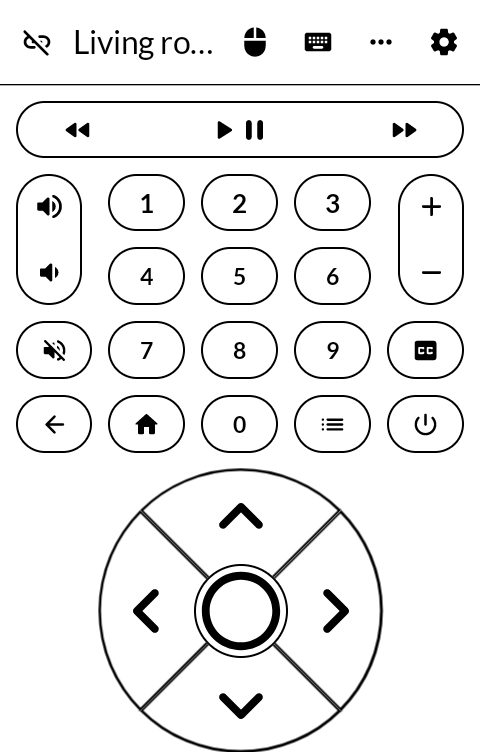
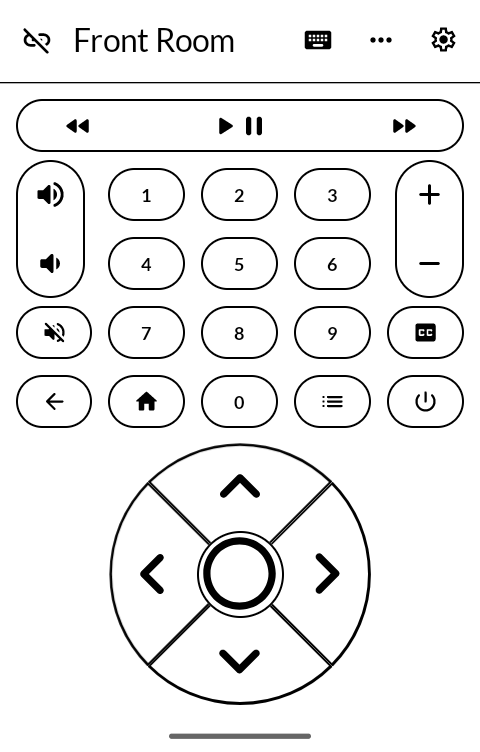
New screenshots

Changed region(s): [[0.0, 0.0306, 1.0, 1.0], [0.7812, 0.0306, 0.8125, 0.0612]]

diff --git a/README.md b/README.md
@@ -11,7 +11,7 @@ sixteen greys and a slow redraw.
 
 | | | | |
 |---|---|---|---|
-| ![The remote](screenshots/1-remote.png) | ![Devices](screenshots/2-devices.png) | ![Settings](screenshots/3-settings.png) | ![About](screenshots/4-about.png) |
+| ![The remote, connected to Kodi](screenshots/1-remote.png) | ![Kodi over Wi-Fi: the last one used, and any that announce themselves](screenshots/2-kodi.png) | ![More buttons](screenshots/3-more-buttons.png) | ![Settings, turned in pages](screenshots/4-settings.png) |
 
 ## What it is
 
